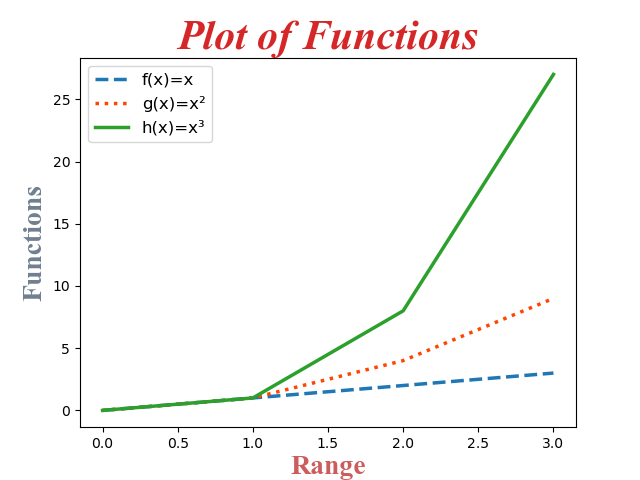
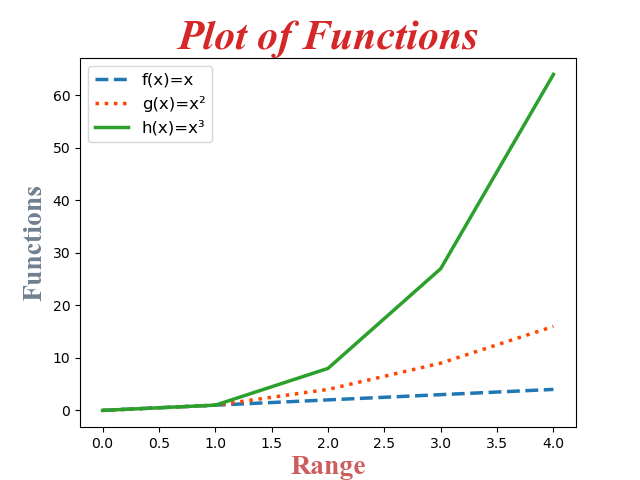
pands-problem-sheet

diff --git a/weeklytask06-squareroot.py b/weeklytask06-squareroot.py
@@ -5,21 +5,14 @@
 
 num = float(input("Please enter a positive number: "))
 
-# make own function here using 
+# make own function here using: 
 # newton's formula: √ N ≈ ½(N/A + A)
 def newtonsqrt(num):
-    a = (num/4) 
-    # newton's method includes making an educated guess of what a is
-    # decided to divide the input number by 4
-    sqroot = (((num / a) + a) / 2)
-    x = sqroot * sqroot
-    while x != num:
-        sqroot2 = (((num / sqroot) + sqroot) /2)
-        return round(sqroot2, 1)
-    else:
-        return round(sqroot, 1)
-# used while loop so that it will continue to calculate the est square root
-# until the square root multiplied by itself is equal to input num
+    guess = num #using input number as the first guess
+    for i in range(10): #for loop to create iteration
+        newguess = (((num / guess) + guess) / 2) 
+        guess = newguess #will loop again using newguess as guess giving a different newguess
+    return round(newguess, 1) #return breaks the for loop
 
 var = newtonsqrt(num)
 print ("The square root of {} is approx. {}.".format(num, var))

diff --git a/weeklytask05-weekday.py b/weeklytask05-weekday.py
@@ -5,14 +5,14 @@ weekend = ["Saturday", "Sunday"]
 
 import datetime # importing this module in order to access current date/time as an object
 x = datetime.datetime.now() # this will give current date/time as per my pc's clock
-x.strftime("%A")
+today = x.strftime("%A")
 # strftime converts into a string
 # %A access the actual word of which day it is
 
-if x != weekend:
-    print("Yes, unfortunately today is a weekday.")
+if today == weekend:
+    print("It is the weekend, yay!")
 else:
-    print ("It is the weekend, yay!")
+    print("Yes, unfortunately today is a weekday.")
 #using and if and else statements here. Once determined above what day is it
 # if it's not the weekend it will print from the if statement
 # when the if statment is false it will run the else statment

diff --git a/weeklytask08-plottask.py b/weeklytask08-plottask.py
@@ -1,13 +1,13 @@
 # This program displays a plot of the functions: f(x)=x, g(x)=x² and h(x)=x³,
-# in range [0, 4], on one set of axes
+# in range [0, 4], on one set of axes.
 # Author: Sarah McNelis
 
 import numpy as np #for arrays
 import matplotlib.pyplot as plt #for plotting
 
-xpoints = np.array(range(0,4)) #range will show on xaxis 0-3
+xpoints = np.array(range(0,5)) #range will show on xaxis 0-4
 ypoints1 = xpoints #f(x)=x
-ypoints2 = xpoints * xpoints #g(x)=x²
+ypoints2 = xpoints * xpoints #g(x)=x²   
 ypoints3 = ypoints2 * xpoints #h(x)=x³
 
 font1 = {'family':'times new roman','color':'tab:red','size':30, 'weight':'bold', 'style':'oblique'}

diff --git a/README.md b/README.md
@@ -93,15 +93,15 @@
 #### - For this program I created my own function for calculating approximation of positive floating-point number's square root. I called it: newtonsqrt(num).
 #### - The idea of Newton's method according to the above website is to use an estimated guess for A and then repeatedly use the answer in the formula as A until the correct answer is obtained. <<https://www.math.ubc.ca/~anstee/math104/newtonmethod.pdf>> <<https://www.school-for-champions.com/algebra/square_root_approx.htm#.YEkLyU5xfIX>>
 #### - I based my code on Newton's formula; √ N ≈ ½(N/A + A) found at <<https://www.school-for-champions.com/algebra/square_root_approx.htm#.YEkLyU5xfIX>>
-#### - In this program I decided to divide the input number by 4 as my educated guess.
+#### - In this program I decided to use the input number as the first guess.
 #### - It is important to note that the variables that are written within a function only exist in that function (Sweigart 2015, p. 67).
 #### - This is something that caused a bit of trouble when writing this program. Differentiating between global scope vs local scope. Local scope being within a function. 
 #### - > Code in global scope cannot use any local variables (Sweigart 2015, p. 67).
 #### - In other words, a variable within a function cannot be called on outside the function. One can only call the function itself. 
-#### - I then used a while loop to continue the equation until the statement was true in which case the else block comes into effect (VanderPlas 2016, p. 40)(Sweigart 2015, p. 38, 39).  
-#### - While x is not equal to the user's number it will continue to calculate using the answer as the new estimated guess. 
-#### - > When an expression is used with a return statement, the return value is what the expression evaluates to (Sweigart 2015, p. 64).
-#### - Therefore, I needed to think about what I was asking and what the answer would be; the expression/argument and the answer/return value. 
+#### - I have used a for loop to create guess iteration. 
+#### - w3schools explains >The for loop actually creates an iterator object and the next() method for each loop <<https://www.w3schools.com/python/python_iterators.asp>>.
+#### - In this program I have chosen a range of 10. This means the for loop in this function will run the code in a loop 10 times before returning the estimated guess <<https://www.w3schools.com/python/python_for_loops.asp>> <<https://www.goeduhub.com/3398/python-program-to-find-the-square-root-number-newtons-method>>.
+#### - > When an expression is used with a return statement, the return value is what the expression evaluates to (Sweigart 2015, p. 64). In other words the return statement breaks the loop.
 #### - I also used the round() function in my return statement in order to round the answer to 1 decimal place. If I wanted to round to 2 decimal places, I would have input a 2 instead of 1.
 #### - The last step in this program is to call the function. The function will not do anything unless it is called <<https://www.w3schools.com/python/python_functions.asp>>.
 
@@ -158,6 +158,7 @@
 #### - Sweigart, A 2015, *Automate The Boring Stuff with Python*, William Pollock, San Francisco.
 #### - VanderPlas, J 2016, *A Whirlwind Tour of  Python*, O’Reilly Medica Inc, Sebastopol.
 #### - <<https://www.geeksforgeeks.org/>>
+#### - <<https://www.goeduhub.com/>>
 #### - <<http://gutenberg.org/>>
 #### - <<https://www.kite.com/>> 
 #### - <<https://manybooks.net/>>
